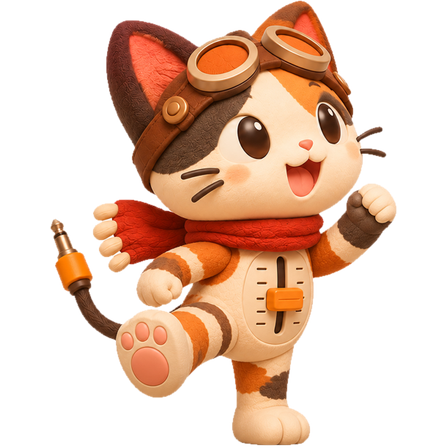
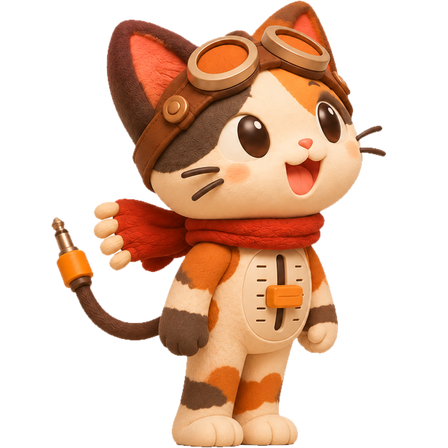
Claw'd plush as the default character, with its own Sparkle House
- New default character: a plush take on Claw'd; falls back to the tape if missing
- Houses are per character: Claw'd lives in the Sparkle House
- Card snapshot mode (--card-snapshot) for docs and posts
- Hook uninstall recognises the script path, so renamed clones clean up too
- Cutter keeps one scale across a new character's poses

diff --git a/Sources/MixKeeper/House.swift b/Sources/MixKeeper/House.swift
@@ -8,8 +8,8 @@ final class House {
 
     let panel = KeeperPanel(size: House.size, level: .statusBar)
     private let view: HouseView
-    private let images: [String: NSImage]
-    private let doorFraction: CGFloat
+    private var images: [String: NSImage] = [:]
+    private var doorFraction: CGFloat = 0.5
     private let coordinate = ZoneTab.current()
     private var open = false
     private(set) var daylight = Daylight.day
@@ -17,24 +17,30 @@ final class House {
     var onClick: () -> Void = {}
     var onMoved: () -> Void = {}
 
-    init() {
-        var images: [String: NSImage] = [:]
-        var door: CGFloat = 0.5
-        if let folder = assetFolder("house") {
-            for name in ["day-closed", "day-open", "night-closed", "night-open"] {
-                images[name] = NSImage(contentsOf: folder.appendingPathComponent("\(name).png"))
-            }
-            if let data = try? Data(contentsOf: folder.appendingPathComponent("house.json")),
-               let json = try? JSONSerialization.jsonObject(with: data) as? [String: Double], let x = json["doorX"] {
-                door = CGFloat(x)
-            }
-        }
-        self.images = images
-        doorFraction = door
+    init(style: String) {
         view = HouseView(frame: NSRect(origin: .zero, size: House.size))
+        load(style)
         panel.contentView = view
         view.onClick = { [weak self] in self?.onClick() }
         view.onDragEnd = { [weak self] in self?.saveOrigin(); self?.onMoved() }
+    }
+
+    /// 換房子款式（換角色時）。該款式的圖不在就留用原本的。
+    func load(_ style: String) {
+        guard let folder = assetFolder(style) ?? assetFolder("house") else { return }
+        var images: [String: NSImage] = [:]
+        for name in ["day-closed", "day-open", "night-closed", "night-open"] {
+            images[name] = NSImage(contentsOf: folder.appendingPathComponent("\(name).png"))
+        }
+        guard images.count == 4 else { return }
+        log("house style=\(folder.lastPathComponent)")
+        self.images = images
+        doorFraction = 0.5
+        if let data = try? Data(contentsOf: folder.appendingPathComponent("house.json")),
+           let json = try? JSONSerialization.jsonObject(with: data) as? [String: Double], let x = json["doorX"] {
+            doorFraction = CGFloat(x)
+        }
+        render()
     }
 
     func start() {

diff --git a/Sources/MixKeeper/PetWindow.swift b/Sources/MixKeeper/PetWindow.swift
@@ -24,10 +24,11 @@ enum PetPose: String, CaseIterable {
 }
 
 enum PetCharacter: String, CaseIterable {
-    case tape, speaker, cat, guitar, trumpet, drum, piano, sax, cello
+    case clawd, tape, speaker, cat, guitar, trumpet, drum, piano, sax, cello
 
     var title: String {
         switch self {
+        case .clawd: return L.t("Claw'd 玩偶", "Claw'd Plush")
         case .tape: return L.t("磁帶小怪", "Tape Imp")
         case .speaker: return L.t("小喇叭精靈", "Speaker Sprite")
         case .cat: return L.t("推桿小貓", "Fader Kitty")
@@ -40,8 +41,15 @@ enum PetCharacter: String, CaseIterable {
         }
     }
 
+    /// Claw'd 住星芒之家，其他角色住錄音室小屋。
+    var houseStyle: String { self == .clawd ? "house-sparkle" : "house" }
+
     static var saved: PetCharacter {
-        get { UserDefaults.standard.string(forKey: "character").flatMap(PetCharacter.init) ?? .tape }
+        get {
+            // 預設 Claw'd 玩偶；圖不在就退回磁帶小怪。
+            let fallback: PetCharacter = loadImages(.clawd).isEmpty ? .tape : .clawd
+            return UserDefaults.standard.string(forKey: "character").flatMap(PetCharacter.init) ?? fallback
+        }
         set { UserDefaults.standard.set(newValue.rawValue, forKey: "character") }
     }
 }

diff --git a/Sources/MixKeeper/CardPanel.swift b/Sources/MixKeeper/CardPanel.swift
@@ -73,6 +73,20 @@ private final class ClickThroughHost<Content: View>: NSHostingView<Content> {
     override func acceptsFirstMouse(for event: NSEvent?) -> Bool { true }
 }
 
+/// 發文、文件用：用和螢幕上同一套卡片畫面輸出 PNG（2x）。
+func snapshotCards(_ cards: [CardInfo], to url: URL) throws {
+    let host = NSHostingView(rootView: CardStack(cards: cards, onOpen: { _ in }, onClose: { _ in }))
+    host.appearance = NSAppearance(named: .aqua)
+    host.frame = NSRect(origin: .zero, size: host.fittingSize)
+    host.layoutSubtreeIfNeeded()
+    let rep = NSBitmapImageRep(bitmapDataPlanes: nil, pixelsWide: Int(host.frame.width * 2), pixelsHigh: Int(host.frame.height * 2),
+                               bitsPerSample: 8, samplesPerPixel: 4, hasAlpha: true, isPlanar: false,
+                               colorSpaceName: .deviceRGB, bytesPerRow: 0, bitsPerPixel: 0)!
+    rep.size = host.frame.size
+    host.cacheDisplay(in: host.bounds, to: rep)
+    try rep.representation(using: .png, properties: [:])!.write(to: url)
+}
+
 final class CardPanel {
     private let panel = KeeperPanel(size: NSSize(width: 316, height: 100))
     var onOpen: (CardInfo) -> Void = { _ in }

diff --git a/Sources/MixKeeper/main.swift b/Sources/MixKeeper/main.swift
@@ -27,6 +27,21 @@ func loadWalkFrames(_ character: PetCharacter) -> [NSImage] {
     return frames.count >= 2 ? frames : []
 }
 
+// 發文素材：MixKeeper --card-snapshot <輸出.png> [zh|en]
+if let index = CommandLine.arguments.firstIndex(of: "--card-snapshot"), CommandLine.arguments.count > index + 1 {
+    _ = NSApplication.shared
+    if CommandLine.arguments.count > index + 2, let lang = LanguageChoice(rawValue: CommandLine.arguments[index + 2]) { L.choice = lang }
+    let now = Date()
+    let cards = [
+        CardInfo(id: "a", kind: .needsPermission, project: "utuvo-monitor", branch: "main", source: L.t("Claude 桌面版", "Claude Desktop"),
+                 title: L.t("Monitor 修正錶頭", "Fix the meter"), since: now.addingTimeInterval(-180)),
+        CardInfo(id: "b", kind: .done, project: "utuvo-site", branch: "claude/home-page", source: "Remote Control",
+                 title: L.t("官網首頁改版", "Home page refresh"), since: now.addingTimeInterval(-40)),
+    ]
+    try snapshotCards(cards, to: URL(fileURLWithPath: CommandLine.arguments[index + 1]))
+    exit(0)
+}
+
 let app = NSApplication.shared
 app.setActivationPolicy(.accessory)
 

diff --git a/Sources/MixKeeper/Keeper.swift b/Sources/MixKeeper/Keeper.swift
@@ -17,7 +17,7 @@ final class Keeper {
 
     private let panel = KeeperPanel(size: Keeper.size)
     private let view: PetView
-    private let house = House()
+    private let house: House
     private let cardPanel = CardPanel()
     private let dust = Dust()
     private let tracker = SessionTracker()
@@ -37,6 +37,7 @@ final class Keeper {
 
     init(character: PetCharacter) {
         view = PetView(frame: NSRect(origin: .zero, size: Self.size), images: loadImages(character))
+        house = House(style: character.houseStyle)
         panel.contentView = view
         view.walkFrames = loadWalkFrames(character)
         log("character=\(character.rawValue) walkFrames=\(view.walkFrames.count)")
@@ -404,6 +405,8 @@ final class Keeper {
         PetCharacter.saved = character
         view.images = loadImages(character)
         view.walkFrames = loadWalkFrames(character)
+        house.load(character.houseStyle)
+        if place == .inside { panel.setFrameOrigin(house.doorOrigin(for: Self.size)) }
         updateCharacterChecks()
         view.show(tracker.cards.isEmpty ? (sleepingUntil == nil ? .idle : .sleep) : .alert)
     }

diff --git a/tools/cut_sheets.py b/tools/cut_sheets.py
@@ -7,6 +7,7 @@ from PIL import Image, ImageFilter
 ROOT = os.path.dirname(os.path.dirname(os.path.abspath(__file__)))
 POSES = ["idle", "sleep", "alert"]
 SIZE = 448
+SHARED_SCALE = {"clawd"}
 
 
 def background_mask(img, limit=238):
@@ -70,7 +71,8 @@ def split_columns(mask, count=3):
 
 
 def main():
-    for name in ["tape", "speaker", "cat", "guitar", "trumpet", "drum", "piano", "sax", "cello"]:
+    names = ["clawd", "tape", "speaker", "cat", "guitar", "trumpet", "drum", "piano", "sax", "cello"]
+    for name in [n for n in names if os.path.exists(f"{ROOT}/design/codex/{n}-sheet.png")]:
         sheet = Image.open(f"{ROOT}/design/codex/{name}-sheet.png").convert("RGB")
         mask = background_mask(sheet)
         soft = mask.filter(ImageFilter.MinFilter(3)).filter(ImageFilter.GaussianBlur(0.7))
@@ -78,10 +80,15 @@ def main():
         cut.putalpha(soft)
         folder = f"{ROOT}/assets/pet/{name}"
         os.makedirs(folder, exist_ok=True)
-        for pose, (a, b) in zip(POSES, split_columns(mask)):
+        parts = []
+        for a, b in split_columns(mask):
             part = cut.crop((a, 0, b, sheet.height))
-            part = part.crop(part.getchannel("A").getbbox())
-            scale = SIZE / max(part.size)
+            parts.append(part.crop(part.getchannel("A").getbbox()))
+        # 同一張原圖本來就是同比例；新角色三個姿勢共用一個縮放，報信舉卡片時才不會變小。
+        # 舊角色維持各自縮放，大小不變。
+        shared = SIZE / max(max(p.size) for p in parts) if name in SHARED_SCALE else None
+        for pose, part in zip(POSES, parts):
+            scale = shared or SIZE / max(part.size)
             part = part.resize((round(part.width * scale), round(part.height * scale)), Image.LANCZOS)
             canvas = Image.new("RGBA", (SIZE, SIZE), (0, 0, 0, 0))
             canvas.paste(part, ((SIZE - part.width) // 2, SIZE - part.height))  # 腳貼底

diff --git a/tools/cut_house.py b/tools/cut_house.py
@@ -9,10 +9,11 @@ STATES = ["day-closed", "day-open", "night-closed", "night-open"]
 SIZE = 336
 
 
-def main():
+def main(prefix="house", folder_name="house"):
+    """prefix：Codex 原圖檔名前綴（house／sparkle）；folder_name：輸出到 assets/ 底下哪個資料夾。"""
     cuts, boxes = {}, []
     for state in STATES:
-        img = Image.open(f"{ROOT}/design/codex/house-{state}.png").convert("RGB")
+        img = Image.open(f"{ROOT}/design/codex/{prefix}-{state}.png").convert("RGB")
         mask = background_mask(img)
         soft = mask.filter(ImageFilter.MinFilter(3)).filter(ImageFilter.GaussianBlur(0.7))
         cut = img.convert("RGBA")
@@ -24,7 +25,7 @@ def main():
     scale = SIZE / max(width, height)
     size = (round(width * scale), round(height * scale))
     offset = ((SIZE - size[0]) // 2, SIZE - size[1])
-    folder = f"{ROOT}/assets/house"
+    folder = f"{ROOT}/assets/{folder_name}"
     os.makedirs(folder, exist_ok=True)
     for state, cut in cuts.items():
         canvas = Image.new("RGBA", (SIZE, SIZE), (0, 0, 0, 0))
@@ -43,4 +44,5 @@ def main():
 
 
 if __name__ == "__main__":
-    main()
+    import sys
+    main(*sys.argv[1:3]) if len(sys.argv) > 2 else main()

diff --git a/design/prompts/prompt-clawd.md b/design/prompts/prompt-clawd.md
@@ -1,0 +1,18 @@
+You are the character artist for a macOS desktop pet. Use your built-in image generation tool (imagegen), including image edit. Do not write code to draw, do not use SVG, do not use any API key.
+
+Look at tape-sheet.png, piano-sheet.png and step/piano-step-a.png in the current directory and match that exact finish: soft plush / vinyl-toy look, warm lighting, soft shading, same scale.
+
+The character is a CUTE PLUSH version of a small pixel-art creature with this exact silhouette, which must stay instantly recognisable:
+- a wide rectangular body in terracotta coral orange (#D97757), wider than it is tall,
+- two small SQUARE black eyes near the top of the body, set wide apart, no mouth or only a tiny one,
+- one short rectangular arm nub sticking straight out on each side, at eye height,
+- FOUR short rectangular legs underneath, evenly spaced,
+- no other features: no ears, no hair, no clothes.
+Make it a soft felt plush with gently rounded corners, slight stitching, rosy cheeks allowed, but keep the blocky rectangle shape, the square eyes, the side nubs and the four legs. No text, no letters, no logos.
+
+Make these files, pure white background, no ground, no shadow:
+1. clawd-sheet.png: ONE image with 3 poses side by side with clear space between them, same scale: pose 1 idle and curious (front view); pose 2 dozing off (eyes become two short flat lines, body slightly squished down); pose 3 excited, one side nub raised holding up a small blank cream card.
+2. step/clawd-step-a.png: square image, the same plush walking to the RIGHT in three-quarter view; legs 1 and 3 lifted forward, legs 2 and 4 planted. Same size and framing style as step/piano-step-a.png.
+3. step/clawd-step-b.png: EDIT clawd-step-a.png into the next step: legs 2 and 4 lifted forward, legs 1 and 3 planted. Keep the canvas size, framing, position and everything else identical.
+
+Check: step-b must lift DIFFERENT legs than step-a; redo if not. Save with exactly those paths, verify all three exist with non-zero size and step-a and step-b have the same pixel size, then print the paths. Do nothing else.

diff --git a/design/prompts/prompt-sparkle-house.md b/design/prompts/prompt-sparkle-house.md
@@ -1,0 +1,13 @@
+You are the artist for a macOS desktop pet. Use your built-in image generation tool (imagegen), including image edit. Do not write code to draw, do not use SVG, do not use any API key.
+
+Look at house-day-closed.png in the current directory and match that finish: soft vinyl-toy / clay look, warm studio colours, soft shading, same framing and scale, pure white background.
+
+Draw the "Sparkle House": a tiny cozy cottage for a small blocky terracotta-orange creature. The roof is a big chunky soft STARBURST / sparkle shape in terracotta coral (#D97757) with about ten rounded rays, sitting on top of a small rounded cream cottage like a crown. One round window, one front door at the bottom centre big enough for a small round character to walk through. No ground, no grass, no sky, no background, no shadow on the ground. No text, letters, logos, characters or creatures.
+
+Make four images of the SAME house. First generate image 1. Then make images 2, 3 and 4 by EDITING image 1, keeping the same canvas size, framing, position, scale and every detail identical except what is described:
+ 1. sparkle-day-closed.png: daytime, door closed.
+ 2. sparkle-day-open.png: same as 1 but the door is open, a dark cosy interior visible.
+ 3. sparkle-night-closed.png: same as 1 but night: cool blue moonlight tones on the house, the window glowing warm yellow, door closed. Background stays pure white.
+ 4. sparkle-night-open.png: same as 3 but the door open with warm yellow light spilling out.
+
+Save the four files in the current directory with exactly those names. Verify all four exist with non-zero size and the same pixel dimensions, then print the four paths. Do nothing else.

diff --git a/README.md b/README.md
@@ -1,10 +1,10 @@
 # Mix Keeper
 
-A little studio creature that lives at the corner of your Mac and tells you when
+A little creature (by default a plush Claw'd) that lives at the corner of your Mac and tells you when
 **Claude Code** finishes or needs your permission. It opens its door, dashes to your
 cursor with a card, and one click takes you back to the right session.
 
-![The nine characters](docs/characters.png)
+![The ten characters](docs/characters.png)
 
 [繁體中文](README.zh-Hant.md)
 
@@ -36,7 +36,8 @@ automations don't keep summoning it.
 
 ![Home by day and by night](docs/home-day-night.png)
 
-- A tiny recording-studio cottage. Drag it anywhere; the spot is remembered.
+- Claw'd lives in the **Sparkle House**; the other characters live in a tiny recording-studio
+  cottage. Drag the house anywhere; the spot is remembered.
 - When the work is done the pet walks home, goes in and closes the door. When something
   needs you, the door opens and it dashes out.
 - Day and night follow the real sunrise and sunset where you are. Location comes from
@@ -51,7 +52,7 @@ automations don't keep summoning it.
 - Drag the pet anywhere. Rub the mouse over it for hearts, click it to make it hop.
 - Click the house to call it outside.
 - Menu bar **◉** shows how many cards are waiting, and has **Bring Here**, **Go Home**,
-  nine characters, and **Settings**: Open at Login, Move Home to Corner, language
+  ten characters (Claw'd plush by default), and **Settings**: Open at Login, Move Home to Corner, language
   (Match System, 繁體中文, English).
 
 ## Install

diff --git a/README.zh-Hant.md b/README.zh-Hant.md
@@ -1,9 +1,9 @@
 # 混音守門員 Mix Keeper
 
-住在你 Mac 角落的錄音室小傢伙。**Claude Code** 跑完、或需要你按許可時，它會開門
+住在你 Mac 角落的小傢伙（預設是 Claw'd 絨毛玩偶）。**Claude Code** 跑完、或需要你按許可時，它會開門
 衝到你的滑鼠旁邊，拿一張卡片給你，點一下就回到那個 session。
 
-![九個角色](docs/characters.png)
+![十個角色](docs/characters.png)
 
 [English](README.md)
 
@@ -33,7 +33,7 @@
 
 ![白天和晚上的家](docs/home-day-night.png)
 
-- 一間小錄音室。可以拖到任何地方，位置會記住。
+- Claw'd 住**星芒之家**，其他角色住小錄音室。房子可以拖到任何地方，位置會記住。
 - 事情處理完，它會走回家、進門、關門；有事時開門衝出來。
 - 白天晚上跟著你所在地的真實日出日落變化。所在地用 Mac 的時區對應城市座標，
   不會跳出定位授權。
@@ -45,7 +45,7 @@
 
 - 可以拖它；滑鼠在它身上來回摸會冒愛心，點一下會跳。
 - 點房子會叫它出來。
-- 選單列的 **◉** 會顯示幾張卡片在等你，裡面有「叫過來」「回家」、九個角色，
+- 選單列的 **◉** 會顯示幾張卡片在等你，裡面有「叫過來」「回家」、十個角色（預設 Claw'd 玩偶），
   以及「設定」：開機自動開啟、把家搬回右下角、語言（跟隨系統、繁體中文、English）。
 
 ## 安裝

diff --git a/NOTICE.md b/NOTICE.md
@@ -6,8 +6,9 @@ Source code is provided under the repository's MIT license.
 
 ## Artwork
 
-The nine characters, their walk frames and the house in `assets/` are original designs
-made for Mix Keeper. They were generated with OpenAI image generation through the Codex
+The characters, their walk frames and the two houses in `assets/` were made for Mix Keeper.
+The default character is a fan-made plush take on Claw'd, the Claude Code mascot, living in
+a "Sparkle House"; the other nine characters are original designs. They were generated with OpenAI image generation through the Codex
 CLI, then cut out and aligned with `tools/cut_sheets.py` and `tools/cut_house.py`.
 The prompts are in `design/prompts/`. The raw generated sheets are not included.
 
@@ -21,6 +22,6 @@ Mix Keeper is a separate native Swift app: no code, art, sound or names were cop
 
 ## Trademarks
 
-Mix Keeper is an unofficial tool and is not affiliated with, endorsed by or sponsored by
-Anthropic. Claude and Claude Code are trademarks of Anthropic, PBC. Apple and macOS are
+Mix Keeper is an unofficial fan project and is not affiliated with, endorsed by or sponsored
+by Anthropic. Claude, Claude Code and Claw'd are trademarks or characters of Anthropic, PBC. Apple and macOS are
 trademarks of Apple Inc.
